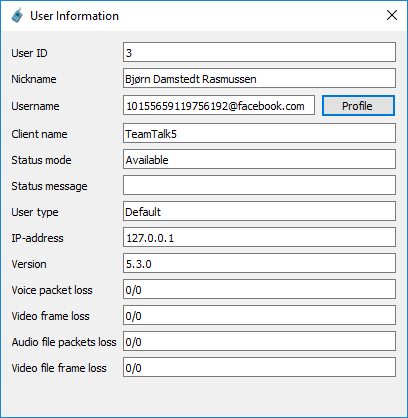
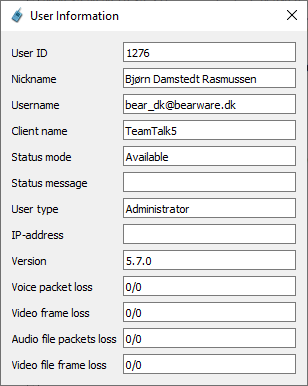
Removed references to Facebook

Changed region(s): [[0.0, 0.0, 1.0, 1.0], [0.3799, 0.9326, 0.4675, 0.9637]]

diff --git a/Documentation/TeamTalk/userinterface.md b/Documentation/TeamTalk/userinterface.md
@@ -302,20 +302,13 @@ checked.
 ### Authentication
 
 Most TeamTalk server owners set up their own usernames and passwords
-for users. Some TeamTalk server also support publicly available login
-systems provided by BearWare.dk and Facebook.
+for users. Some TeamTalk servers also support a publicly available login
+system provided by BearWare.dk.
 
 - BearWare.dk Web Login
   - If the username to log on to a server is "bearware" then you must
     register a username on BearWare.dk and use this to log on to the
     server.
-
-- Facebook Login
-  - If the username to log on to the server is "facebook" then a
-    dialog will pop up asking you to log into Facebook. For more
-    information on Facebook login read section @ref fbuseraccount. If
-    at some point you want to log into a different Facebook account
-    then hit Escape when the Facebook login dialog appears.
 
 Learn more about setting up user accounts by read the section on
 [configuring TeamTalk servers](@ref teamtalkserver) or the section
@@ -400,8 +393,8 @@ Each of the menu items in the Me-menu are described here:
       is simply a display name. It has no relation to your username
       (if you have a user account). In @ref useraccountsdlg it's
       possible to lock the nickname so it cannot be changed. This is
-      especially useful if you use a [Facebook login](@ref fbuseraccount)
-      and want to know who the people are.
+      especially useful if you use BearWare.dk Web Login
+      and want people to use their registered name.
 - **Change Status**
     - This is used to change your status mode, like e.g. Available,
       Away, Question-mode and set a message regarding your current
@@ -494,10 +487,7 @@ active.
 
 - **View User Information**
     - Use this menu item to get extended information about a user,
-    like e.g. username, user type and packet reception. If the user is
-    a Facebook user then it's possible open the user's profile
-    page. Read section [Facebook Login](@ref fbuseraccount) to learn
-    more about Facebook logins.
+    like e.g. username, user type and packet reception.
 - **Messages**
     - The menu item is for sending user to user text messages. A
       message dialog will pop up on the user's computer when you send
@@ -1013,10 +1003,6 @@ initially an administrator account can be set up so
 further user accounts can be created using this user accounts
 dialog.
 
-Note that a special account with the username "facebook" can be used
-to allow Facebook logins. More on this in
-[Facebook Login](@ref fbuseraccount) section.
-
 Here is shown the User Accounts-dialog.
 
 ![User Accounts Dialog](dlg_useraccounts.png "User Accounts")
@@ -1044,17 +1030,16 @@ The remaining items are explained in the following sections.
 - **Username**
     - The username for the user account. A client logging on to the
       TeamTalk server must provide this along with a password.
-    - If the username "facebook" is used then the clients using this
-      username will be asked to authenticate with
-      [Facebook](http://www.facebook.com) before logging in. Read
-      section [Facebook Login](@ref fbuseraccount) for more
-      information on setting up a Facebook login.
+    - To enable BearWare.dk Web Login on a TeamTalk 5 Pro Server then
+      create a user account with the username "bearware". Don't specify
+      a password.
+    - To create a user account for a specific BearWare.dk Web Login
+      user on a TeamTalk 5 Pro Server then create a user account with
+      the login name followed by @bearware.dk,
+      e.g. bear_dk@bearware.dk. Don't specify a password.
 - **Password**
     - The password of the new user account.
-    - For Facebook logins, i.e. username "facebook" or
-      postfix "@facebook.com", no password is required (the TeamTalk
-      server validates the user's authenticity with Facebook's login
-      service).
+    - Don't specify a password for BearWare.dk Web Login accounts.
 - **Note**
     - Information about the user account can be put here.
 - **Initial Channel**
@@ -1071,9 +1056,8 @@ The remaining items are explained in the following sections.
 - **User can change nickname**
     - If unchecked then the user cannot change the client's nickname
       using the [Change Nickname menu item](@ref memenu). This can
-      also be used if users show be force to use their Facebook
-      profile name as nickname.  See section @ref fbuseraccount for
-      more information on using Facebook accounts.
+      also be used if users should be forced to use their registered
+      profile name as nickname when using BearWare.dk Web Login.
 - **User can see users in all channels**
     - If unchecked the user can only see users in the current channel.
 - **User can see hidden channels**
@@ -1152,32 +1136,6 @@ The remaining items are explained in the following sections.
 - **Limit issued commands**
   - Prevent users from sending numerous commands to the server or
     other users.
-
-## Facebook Login {#fbuseraccount}
-
-By specifying the username "facebook" will force the clients using
-this user account to log in using their Facebook account. The TeamTalk
-server will then authenticate that the login is valid using Facebook's
-login service. Section @ref fbserver explains what is required for a
-TeamTalk server to handle Facebook logins.
-
-When a Facebook user is logged into the TeamTalk server then their
-username will appear as their Facebook user ID followed by
-@@facebook.com. Here's an example:
-
-![User Information Dialog](dlg_userinfo.png "User Information")
-
-If you want one Facebook user to have special user-rights on the
-TeamTalk server then you can create a user account with the Facebook
-user's account name. In the above example the username for the 
-account would be "10155659119756192@facebook.com".
-
-The dialog picture in section [User Accounts](@ref useraccountsdlg)
-shows 10155659119756192@facebook.com as an active user account.
-
-Note that by not allowing users to change nickname (when creating a
-Facebook user account) will cause their Facebook profile name to
-appear as their nickname on the TeamTalk server.
 
 ## Banned Users Dialog {#bannedusersdlg}
 

diff --git a/Documentation/TeamTalk/server.md b/Documentation/TeamTalk/server.md
@@ -14,7 +14,6 @@ Here's an overview of this section:
   - [Installing multiple TeamTalk NT Services](@ref multintservice)
 - [TeamTalk Server for Linux](@ref tt5srvlinux)
 - [TeamTalk Server for Mac OS X](@ref tt5srvmac)
-- [TeamTalk Server with Facebook Login](@ref fbserver)
 
 # TeamTalk Server for Windows {#winserver}
 
@@ -128,15 +127,3 @@ To start the TeamTalk server setup-wizard type:\verbatim
 When running the setup-wizard then make sure the executable is run at
 a writable location so it's possible for the setup-wizard to save its
 changes to disk.
-
-# TeamTalk Server with Facebook Login {#fbserver}
-
-If a TeamTalk server is set up with a user account that has the
-username "facebook" then this will force the TeamTalk server to
-authenticate the user's credentials with Facebook's login service. For
-the TeamTalk server to do this it must have internet access and be
-able to do DNS lookups.
-
-Read section [Facebook Login](@ref fbuseraccount) for more information
-on how to set up a Facebook account.
-
